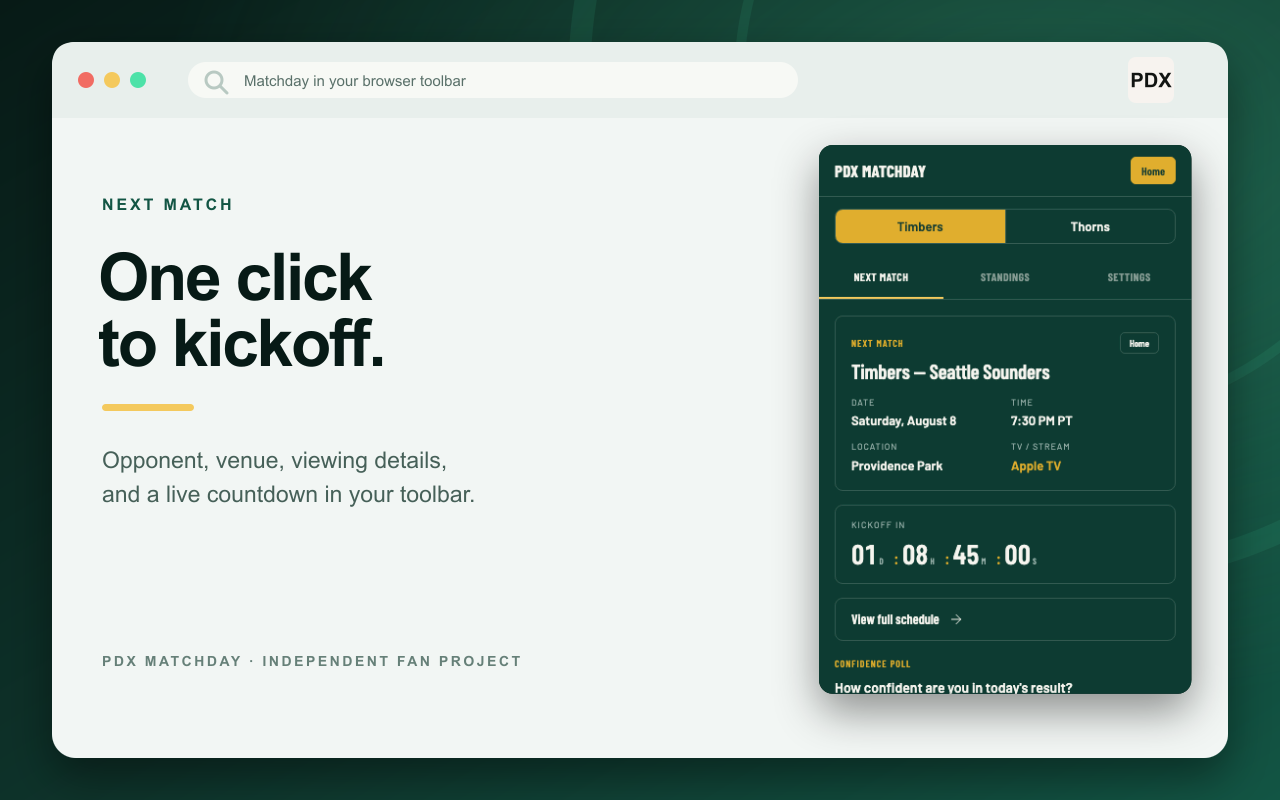
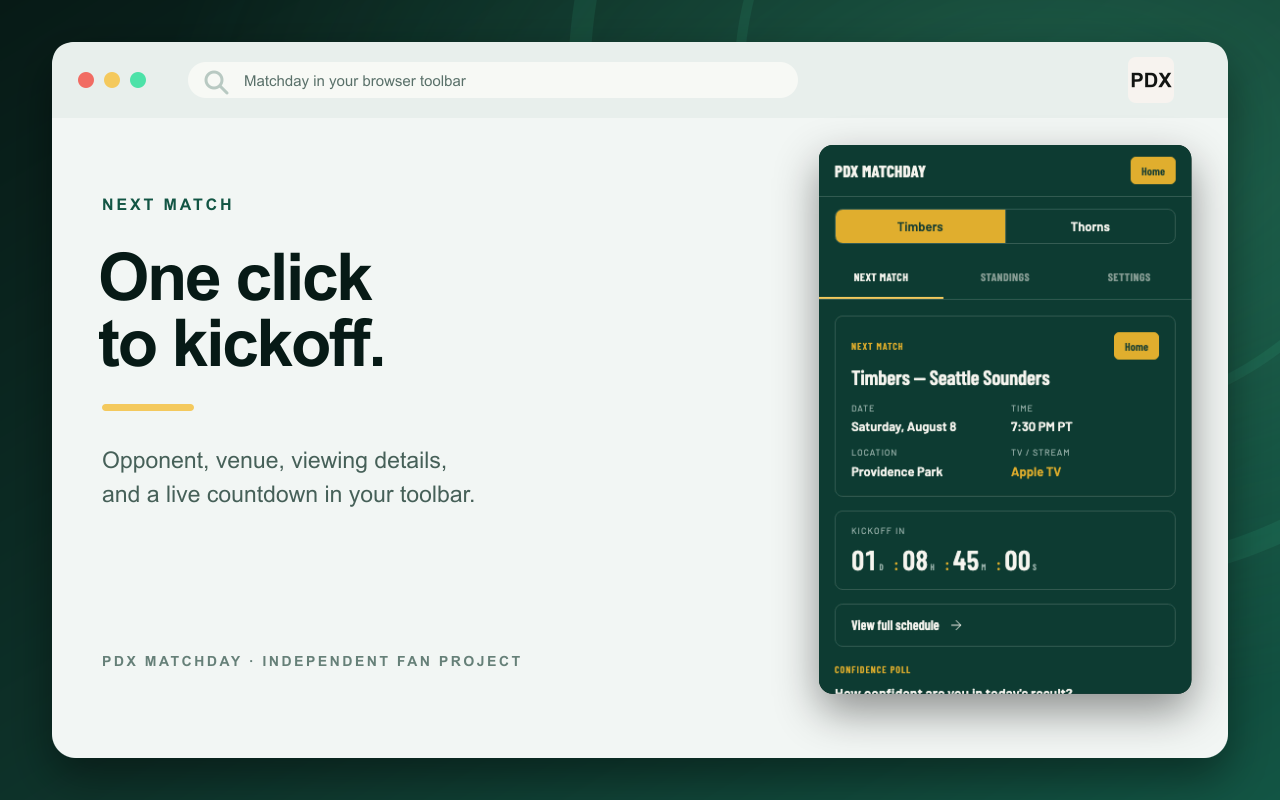
fix(popup): make the match Home/Away badge match the header's
The header scheme-tag and the match-card's status badge both show
the exact same fact (this match's home/away status, always in sync
since one is derived from the other) but used different CSS classes
- one bold and filled, one a plain outline - so they read as two
unrelated pieces of information next to each other. Switched
match-status to the same scheme-tag treatment. Left freshness-tag
(Settings > Data source) on the plain style since it shows different
information and should look distinct. Regenerated store assets to
match.

Changed region(s): [[0.6562, 0.4062, 0.8438, 0.625], [0.6562, 0.6562, 0.9062, 0.875], [0.8438, 0.4062, 0.9062, 0.4688]]

diff --git a/popup.html b/popup.html
@@ -29,7 +29,7 @@
 
     <section class="tab-panel match-panel" id="panel-match" role="tabpanel" aria-labelledby="tab-match">
       <section class="match-card outlined-panel">
-        <div class="card-heading"><h2 class="section-kicker card-title">Next Match</h2><span class="status-tag" id="match-status">Away</span></div>
+        <div class="card-heading"><h2 class="section-kicker card-title">Next Match</h2><span class="scheme-tag" id="match-status">Away</span></div>
         <div class="skeleton-block" id="match-skeleton" aria-hidden="true"><span></span><span></span><span></span></div>
         <div id="match-info" class="hidden" aria-live="polite">
           <h3 class="match-headline"><span id="match-team-name">Timbers</span><span aria-hidden="true"> — </span><span id="match-opponent"></span></h3>
